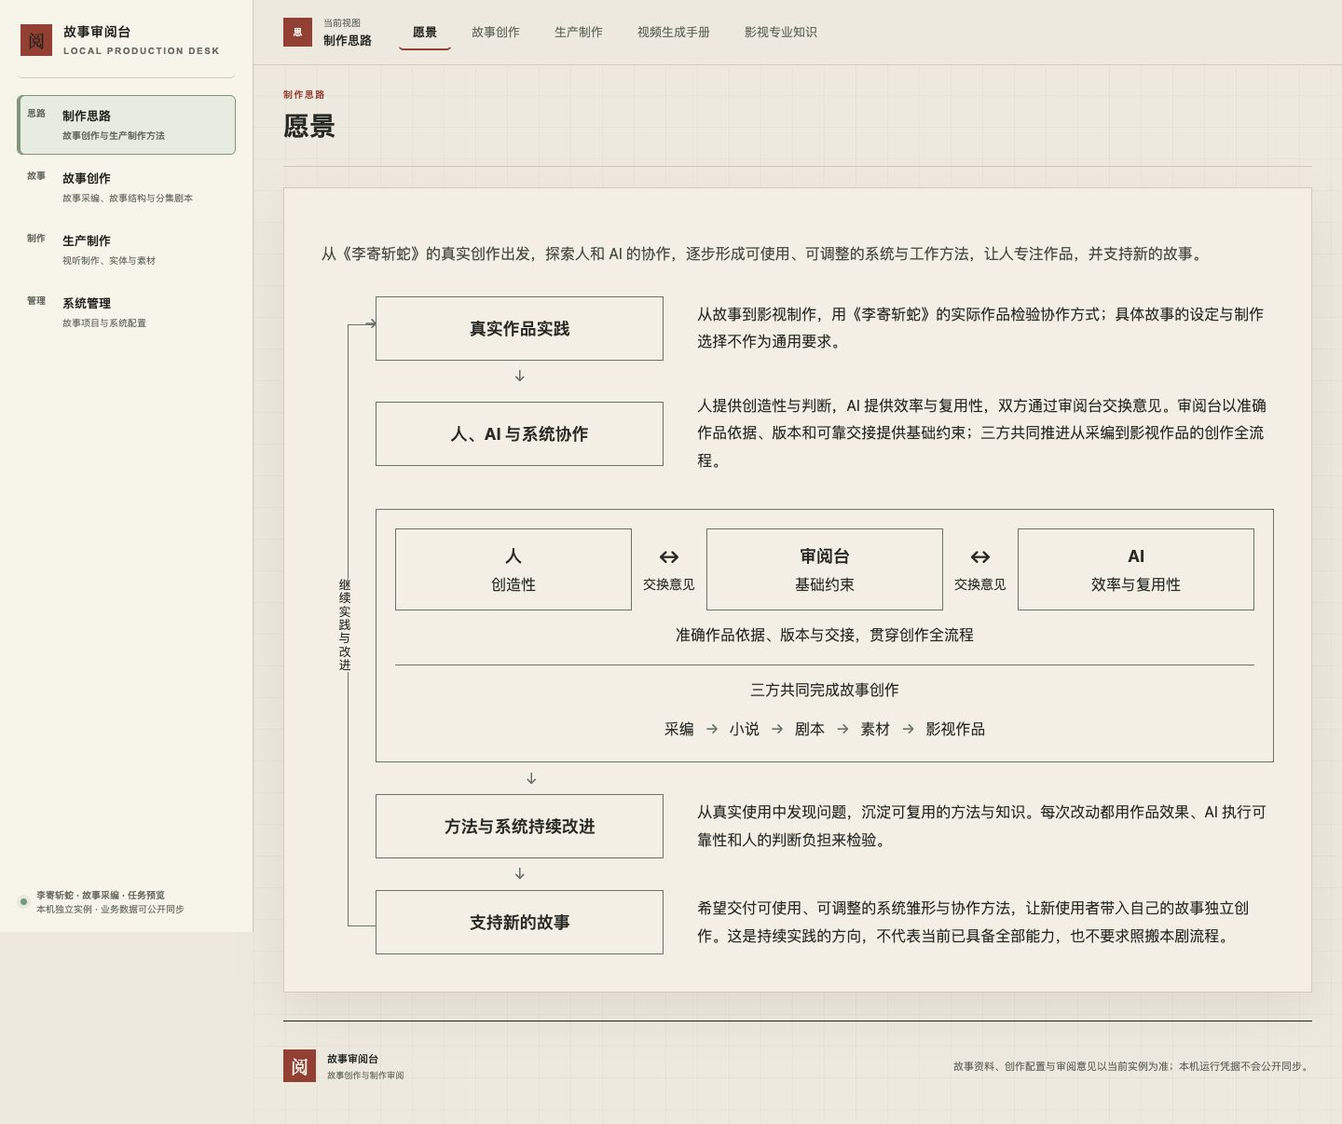
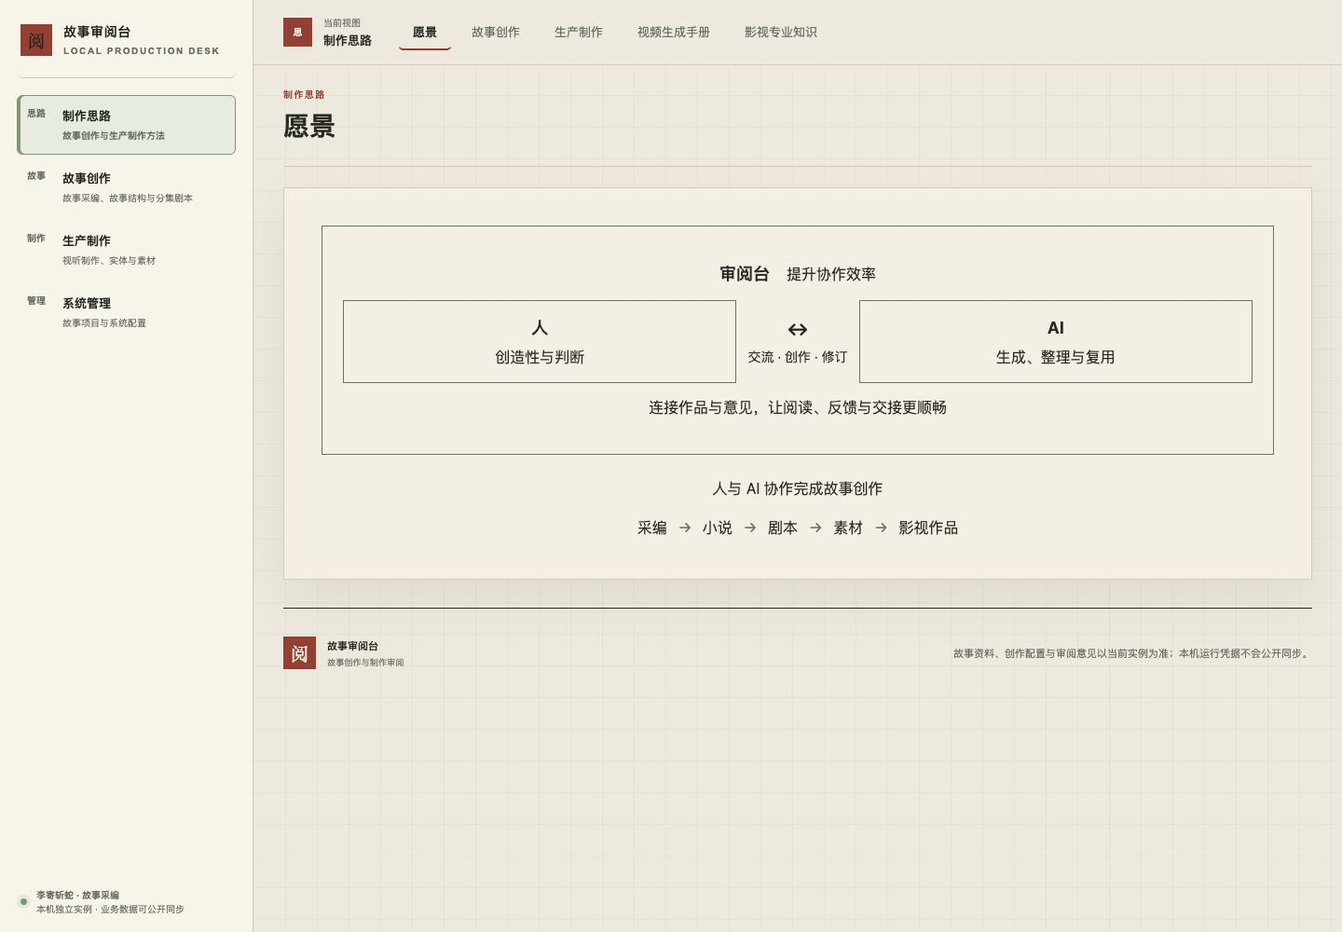
Reduce vision to human AI collaboration supported by the review desk

diff --git a/scripts/sync_system_vision.py b/scripts/sync_system_vision.py
@@ -15,6 +15,20 @@ SECTION_IDS = ('practice', 'review-desk', 'methods', 'delivery')
 
 
 def derive(raw):
+    compact = [line for line in raw.decode('utf-8').splitlines() if line.strip()]
+    if len(compact) >= 2 and compact[1].startswith('<!-- layout: '):
+        match = re.fullmatch(r'<!-- layout: (.+) -->', compact[1])
+        metadata = json.loads(match[1]) if match else None
+        if isinstance(metadata, dict) and metadata.get('type') == 'diagram':
+            if len(compact) != 4 or not compact[0].startswith('# ') or not compact[2].startswith('## '):
+                raise ValueError('diagram-only vision must contain one title and one diagram section')
+            diagram = re.fullmatch(r'<!-- diagram: (.+) -->', compact[3])
+            if not diagram or set(metadata) != {'type', 'anchors'} or metadata['anchors'] != {key: 'review-desk' for key in ('practice', 'methods', 'delivery')}:
+                raise ValueError('invalid diagram-only vision or legacy anchors')
+            return {'id': 'vision', 'label': compact[0][2:], 'title': compact[0][2:], 'lead': '',
+                    'layout': metadata, 'sections': [{'id': 'review-desk', 'title': compact[2][3:],
+                    'blocks': [], 'diagram': json.loads(diagram[1])}],
+                    'source': {'path': SOURCE.as_posix(), 'sha256': hashlib.sha256(raw).hexdigest()}}
     # The approved source stays byte-for-byte intact. Stable reading anchors are
     # supplied to the existing Schema 2 Markdown converter, not added to prose.
     lines, count, layout, diagrams = [], 0, None, {}

diff --git a/tests/test_creative_system_review.py b/tests/test_creative_system_review.py
@@ -28,7 +28,7 @@ class VisionDeliveryTest(unittest.TestCase):
         self.assertEqual(updated['tabs'][1:], before['tabs'])
         self.assertEqual(vision.update(updated, raw), updated)
         tab = updated['tabs'][0]
-        actual = [tab['title'], tab['lead']]
+        actual = [tab['title']] + ([tab['lead']] if tab['lead'] else [])
         for section in tab['sections']:
             actual += [section['title']] + [block['text'] for block in section['blocks']]
         expected = [re.sub(r'^#{1,2} ', '', line) for line in raw.decode().splitlines()

diff --git a/production/vision-collaboration/VERIFICATION.md b/production/vision-collaboration/VERIFICATION.md
@@ -1,33 +1,29 @@
-# task-20261010-0023 · 愿景协作块展开三方分工与完整作品链
+# task-20261010-0023 · 愿景只保留协作图，突出人与AI共同创作
 
-原问题：第二块只有外部节点和一段分工说明，读者不能从图中直接看见三方如何协作及其共同创作范围。现在直接显示“人／创造性 ↔ 审阅台／基础约束 ↔ AI／效率与复用性”，双向连线标注交换意见；准确作品依据、版本与交接约束贯穿“采编 → 小说 → 剧本 → 素材 → 影视作品”。读者无需打开或悬停即可理解分工、交换及共同范围。全链是愿景，不证明已有成片或所有能力已实现。
+原问题：愿景协作块只有外部节点和一段分工，后曾增加三方与作品链。用户2026-10-11进一步明确“整个愿景页只留这张图”，核心是人与AI协作完成创作，审阅台提升协作效率；这次明确反馈取代原四块布局与三方并列的展示要求。
 
-## 版本与实际页面
+现在整页正文只保留协作图。人提供创造性与判断，AI提供生成、整理与复用能力，两者直接双向交流、创作与修订；审阅台用平台框承载双方，说明“提升协作效率”和“连接作品与意见，让阅读、反馈与交接更顺畅”。下方直接显示共同的采编→小说→剧本→素材→影视作品链。移除总述、四块循环、回连和外部重复标题／说明，没有要求用户学习基础约束或版本术语。作品链是创作愿景，不代表已具备全部能力或已有成片。
 
-系统候选为 desk `9d3d767a2538b9aab6375425a6fa7d8b57cc5d58`，故事准确引用在 `config/instance.json`；故事候选与逐仓集成、推送身份以本任务账本为准。开发吸收执行时双仓main/upstream，未沿用0022的旧系统基线。
+## 准确版本与隔离实读
 
-macOS Chrome，本任务新建标签页；完整正式数据的一致性副本，隔离入口 `http://127.0.0.1:50963/`，桌面1440×1000，窄屏390×844。四块、图左文右和继续实践回连保留，协作关系用该行全宽，窄屏按角色交换、贯穿约束、共同作品链纵向阅读，没有缩小文字或横向溢出（scrollWidth=innerWidth=390）。其他三块原含义未改变。
+系统候选 desk `c5962d56add26dbac28d55f5b4232e4fc4711726`；故事准确引用在config/instance.json，完整候选、集成及远端回读身份按本任务账本。两仓均吸收执行时最新main/upstream，保留其他任务更新。
 
-![隔离桌面](isolated-desktop.jpg)
+macOS Chrome，独立实例50964及本任务新标签。桌面1440×1000、窄屏390×844实际阅读通过：平台支持双方、双方直接协作、共同作品链一目了然；窄屏纵向展开，没有横向溢出（scrollWidth=390）。愿景只有一个页面标题，正文只一张图，无内部目录、空引言、外部章节标题或四块循环。
 
-[窄屏全文](isolated-narrow.jpg)
+![当前隔离桌面](isolated-desktop.jpg)
 
-默认入口在实际加载完成后显示愿景；显式vision与刷新相同。无tab旧链的practice、review-desk、methods、delivery均进入对应内容；只有一个愿景大标题，无内部目录或空占位。实际切换四个其他子页，原目录恢复，点击structure、candidate-production、demo-inputs、staging，各代表章首位于顶栏下方约90px。视频手册两张原输入图、专业知识调度SVG实际可见。键盘左右切页可用，回愿景后目录隐藏。
+[窄屏完整图](isolated-narrow.jpg)
 
-在完整隔离数据中全局搜索M2673，读到“挑柴老汉 · 已有原件身份复用方案”；查影视专业知识的场面调度、刷新，再返回生产制作，URL、M2673搜索框、1项结果及全局范围一致。没有提交评论、判断或创作变更。
+显式vision和刷新保持。四个旧愿景链接practice／review-desk／methods／delivery均进入当前图示，按用户删除旧内容后的语义保留入口，不伪装原章节仍存在、不增加空锚点占位。其他四子页内容未改，实际切换与点击structure／candidate-production／demo-inputs／staging，原目录和代表章节保持可读，返回愿景恢复纯图。
 
-## 同源、拒错与方法恢复
+## 同源、恢复与历史边界
 
-唯一正文是 `production/system-vision.md`，角色、连接、流程元数据也在该源稿。`sync_system_vision.py --check`通过，其他四子页内容保持。系统按明确结构展示，不硬编码本剧文案；无diagram的合法旧循环继续显示。
+唯一正文production/system-vision.md同时维护图示角色、平台、交换、作品链与旧锚点映射；sync_system_vision.py --check和同源／方法交付3项、系统HTTP文档9项、前端导航／返回20项通过。旧cycle及constraint图示继续支持，新纯图layout只接受一个图示节；平台support与旧constraint不能混用。4类非法结构或失效引用在隔离副本明确拒绝，修正后完整读取恢复。
 
-隔离副本实测5类非法输入：失效连接端点、重复角色id、错误流程类型、空约束和额外角色字段，全部明确拒绝；恢复正确内容后重新读取完整关系。现有HTTP文档9项、前端格式／导航／方法返回20项、方法交付3项、发布守卫18项通过，JavaScript语法及两仓diff检查通过。API／自动检查补充页面实读，不代替它。
+Review资源、方法、绑定仅追加第5版，新包标准导出与新空实例恢复均取得完整同源愿景；第4版旧执行重导出仍为原文。相同来源和增量幂等，旧expected_version的竞争修改拒绝。旧精确执行、作品、评论、素材原件及其他方法不被升级或覆盖；正式应用仍沿最新活库增量，不用测试库回灌。
 
-Review来源、方法和绑定只追加第4版，共3条修订；标准导出正文、适配和愿景按源目录实际读取，愿景包含完整图示元数据且字节一致。在新空实例恢复该包并重新导出，仍取得同一完整愿景。第3版旧执行再次导出与原导出逐字节相同。
+## 正式回执与收尾
 
-重复同一来源同步不追加；旧expected_version提交不同内容被拒绝，读取最新版本可正常继续。在最新正式数据副本应用准确配置包新增3条，重复应用新增0条；迁移前后逐表检查无关作品、评论、原件及准确历史保持，数据库结构未变。完整检查回执在本任务本机 `.runtime/vision-collaboration/`。
+正式目标为本机3000。准确候选经受管desk→primary集成推送后，以既有发布器准备新冻结包，在串行停止写入窗口应用3条方法修订并切换服务。准确镜像、源码、挂载、保全检查、正式Chrome复验和清理数量，以账本本轮结果及主项目`.runtime/task-20261010-0023/v5/`回执为准；隔离截图不能单独证明正式生效。前一轮正式历史留在原回执及准确Git提交，不改写旧执行。
 
-## 正式发布、独立复验与资源处置
-
-正式入口为 `http://127.0.0.1:3000/?workspace=production.approach&tab=vision`。发布沿受管desk→primary交付和推送，准确冻结包、既有发布锁和停止写入窗口；消费逐仓Git回执，增量追加方法，不回灌任务库。准确运行镜像、挂载、源码、逐表保全、正式Chrome桌面／窄屏及四个对照子页结果，归任务账本的正式发布和执行验收结果与主项目 `.runtime/task-20261010-0023/` 回执；本文候选实读不能单独证明正式生效。
-
-本次用户明确“不自动结项”：不调用_complete，不把执行者验收等同负责人独立Review，不关闭其他历史残留。完成正式发布复验后清理本任务已失效的预览服务、测试库、复制原件、导出及构建副本；准确删除范围、数量、回读与保留用途记入同一本机回执。正式current/previous/base、正式release配置和最小恢复证据按用途保留。任务尚未结项且TUI占用的双仓worktree保留，待用户结项并退出释放锁后，由本任务执行者沿受管cleanup退役。
+用户“不自动结项”的决定继续有效：不调用_complete，不把执行者验证当作负责人独立Review。完成发布复验后停止本轮预览、删除测试库／导出／构建副本和一次性日志；保留正式current/previous/base、正式配置、必要截图与准确恢复回执。两仓worktree在任务未结项和TUI占用期间保留，用户结项并退出释放锁后受管退役。本轮不含VPS发布、付费生成或作品改写。

diff --git a/KNOWLEDGE.md b/KNOWLEDGE.md
@@ -19,7 +19,7 @@
 
 - 方法的共用章节加载条件与工作环节选择条件使用同一无损编辑契约：保留 JSON 类型、顺序和准确引用，布尔与同名字面文本分开，非法或重复字段整次拒绝。修改方法只追加版本，绑定显式更新，旧执行保持原全文快照。操作与验证见 [受管方法](production/managed-methods.md) 和 [条件回写验收](production/method-condition-roundtrip/VERIFICATION.md)；正式方法是否需修正以当次数据证据判断，不从隔离复现推定正式数据损坏。
 
-- 创作协作与系统 Review 的可移植方法只在 [skills/creative-system-review/](skills/creative-system-review/SKILL.md) 维护；项目适配说明本剧入口，迁移时替换适配。系统专用工作类型 `creative-system-review` 经既有 `method-source` 取得完整正文、适配和愿景的准确只读投影，独立于生成绑定；新步骤交付保留完整方法到适配的相对目录，适配和愿景随章提供，旧执行保持原文及旧入口限制；安装、版本更新和空实例恢复见 [受管方法](production/managed-methods.md#创作协作-review)。[愿景](production/system-vision.md) 是唯一愿景正文，`scripts/sync_system_vision.py` 派生制作思路首子页，该页使用左侧线框节点、右侧对应短说明及继续实践回连，无内部阅读目录；协作块可同源展开三方角色、双向意见交换及共同作品链，通用展示和拒错契约见系统 `docs/production-approach.md`；其他子页与四个愿景稳定锚点保留。正文及布局同源，当前投影同步沿受管方法，实际依据见 [愿景页验收](production/vision-page/VERIFICATION.md)。来源：task-20261010-0022 正式验收及 task-20261010-0001 已审正文及确定性派生/方法恢复检查；正式启用仍按任务发布回执核对。
+- 创作协作与系统 Review 的可移植方法只在 [skills/creative-system-review/](skills/creative-system-review/SKILL.md) 维护；项目适配说明本剧入口，迁移时替换适配。系统专用工作类型 `creative-system-review` 经既有 `method-source` 取得完整正文、适配和愿景的准确只读投影，独立于生成绑定；新步骤交付保留完整方法到适配的相对目录，适配和愿景随章提供，旧执行保持原文及旧入口限制；安装、版本更新和空实例恢复见 [受管方法](production/managed-methods.md#创作协作-review)。[愿景](production/system-vision.md) 是唯一愿景正文，`scripts/sync_system_vision.py` 派生制作思路首子页，按用户2026-10-11明确修改，整页只展示同源协作图：人与AI直接双向协作，审阅台平台提升协作效率，下方保留采编至影视作品的完整链；不再显示四块循环、总述或外部章节说明。其他制作思路子页保留，原四个愿景锚点映射到同一图示。通用展示、平台说明及拒错契约见系统 `docs/production-approach.md`；唯一正文、派生和当前Review投影保持一致。实际证据见 [协作图示验收](production/vision-collaboration/VERIFICATION.md)，旧四块阶段按 [愿景页验收](production/vision-page/VERIFICATION.md) 追溯。来源：用户本轮明确反馈与同源派生／恢复核验；正式启用仍按任务发布回执核对。
 
 - 用户已确认将主要创作、制作方法纳入系统管理，并让实际执行取得所选方法、共用资料和准确输入。已交付 SKILL、执行绑定基础与共用专业方法库；保留已确认故事结构与小说。用户在 2026-10-10 取消原 0022/0023 全剧重做安排，后续以创作协作 Review SKILL 的实际探索重新确定优化范围，不将旧重做规划当成持续有效的执行指令。基础任务只验证加载及绑定能力，不代替方法编制或全剧创作。范围与验收目标见 [方法管理与执行绑定规划](planning/managed-skills-runtime-task.md)。方法、共用章节、准确环节绑定与执行快照已正式启用，操作与兼容恢复见 [受管方法](production/managed-methods.md)；旧方案仅按切点中的准确修订保留未知方法历史，新工作使用新契约，不能按任务号永久豁免。主要工作的方法与交接见 [创作制作方法](production/professional-methods.md)，试用范围和发现见 [方法试用](production/professional-methods/VERIFICATION.md)。影视知识、手册仍由项目正文维护，只读投影按准确章节附带图示与来源；新剧本场次及外部创作也须先取得方法，旧候选不补造历史。实际启用与后续运行身份以任务账本和发布回执为准。来源：用户 2026-10-09 批准规格、澄清授权及 task-20261009-0020 的 2026-10-10 正式启用回执及 task-20261009-0021 方法库交付；后续范围以用户 2026-10-10 取消旧重做任务、改用 Review SKILL 的决定为准。
 

diff --git a/STATE.md b/STATE.md
@@ -22,7 +22,7 @@
 
 - 工作方法的按需条件回写已完成自有隔离 Chrome 实操：只改用途后15项条件与准确资源不变，staging/sound全文仍可取；两处显式编辑、失败保护及冻结执行见 [条件回写验收](production/method-condition-roundtrip/VERIFICATION.md)。正式数据没有已证受影响方法，本次不迁移；最终正式版本、验收与清理按 task-20261010-0003 实际回执核对。
 
-- task-20261010-0022 已将 [愿景](production/system-vision.md) 改为四块线框流程与对应短说明，移除本页阅读目录和重复标题；默认、显式入口、刷新、旧锚点、其余四子页及窄屏键盘已在正式 Chrome 回查，Review 当前投影追加第3版。实际发布、恢复及过程清理见 [愿景页验收](production/vision-page/VERIFICATION.md)。[创作协作 Review](skills/creative-system-review/SKILL.md) 继续沿准确只读投影交接。原 task-20261010-0001 的根独立复验仅针对当时版本；旧阶段隔离准备和空实例恢复边界见 [交付验收](production/creative-system-review/VERIFICATION.md)，根验收见 `.runtime/system-review/skill-delivery/formal-acceptance.md`；结项收尾按 task-20261010-0001 实际回执核对。
+- task-20261010-0022 原四块阶段曾将愿景改为四块线框流程与对应短说明，移除本页阅读目录和重复标题；默认、显式入口、刷新、旧锚点、其余四子页及窄屏键盘已在正式 Chrome 回查，Review 当前投影追加第3版。实际发布、恢复及过程清理见 [愿景页验收](production/vision-page/VERIFICATION.md)。[创作协作 Review](skills/creative-system-review/SKILL.md) 继续沿准确只读投影交接。原 task-20261010-0001 的根独立复验仅针对当时版本；旧阶段隔离准备和空实例恢复边界见 [交付验收](production/creative-system-review/VERIFICATION.md)，根验收见 `.runtime/system-review/skill-delivery/formal-acceptance.md`；结项收尾按 task-20261010-0001 实际回执核对。
 
 - 旧镜头制作方案已完成最新双仓候选上的隔离实读：E02/AS006/ASH033版本1直接读原M3071及旧图片1，当前方案可返回；M3070版本2多记录、冻结M1206和ST087旧状态正常对照见[历史方案验收](production/historical-production-definition/VERIFICATION.md)。旧意见、当前采纳/取消、同未冻结制作版参考修改及冲突保护已实操；正式生效、3000只读复验与清理以task-20261009-0031实际回执为准，根独立复验尚未执行。
 
@@ -92,4 +92,4 @@
 
 - task-20261010-0022 的双仓worktree仍由当前TUI及清理锁使用；退出释放后由本任务执行者沿 `codex.project task cleanup` 整组退役，保留分支和会话。预览服务、测试库、构建副本已清除；必要JSON回执保留在主项目 `.runtime/task-20261010-0022/`，待独立Review及追溯用途结束后裁剪，正式运行和恢复不依赖任务目录。
 
-- task-20261010-0023 已在最新正式数据副本验证三方协作图示及Review第4版增量。双仓正式交付、3000复验与资源处置沿任务账本和 [协作图示验收](production/vision-collaboration/VERIFICATION.md) 核对；用户要求本任务不自动结项，负责人独立Review保留。
+- task-20261010-0023 按用户最新反馈，整个愿景页收敛为人与AI协作图，审阅台提升协作效率；纯图与Review第5版在隔离实例验证通过。双仓正式交付、3000复验与资源处置沿任务账本和 [协作图示验收](production/vision-collaboration/VERIFICATION.md) 核对；用户要求本任务不自动结项，负责人独立Review保留。

diff --git a/production/system-vision.md b/production/system-vision.md
@@ -1,23 +1,7 @@
 # 愿景
 
-<!-- layout: {"type":"cycle","return_label":"继续实践与改进"} -->
+<!-- layout: {"type":"diagram","anchors":{"practice":"review-desk","methods":"review-desk","delivery":"review-desk"}} -->
 
-从《李寄斩蛇》的真实创作出发，探索人和 AI 的协作，逐步形成可使用、可调整的系统与工作方法，让人专注作品，并支持新的故事。
+## 人与 AI 协作完成故事创作
 
-## 真实作品实践
-
-从故事到影视制作，用《李寄斩蛇》的实际作品检验协作方式；具体故事的设定与制作选择不作为通用要求。
-
-## 人、AI 与系统协作
-
-<!-- diagram: {"type":"collaboration","roles":[{"id":"human","title":"人","value":"创造性"},{"id":"desk","title":"审阅台","value":"基础约束"},{"id":"ai","title":"AI","value":"效率与复用性"}],"exchanges":[{"from":"human","to":"desk","label":"交换意见"},{"from":"desk","to":"ai","label":"交换意见"}],"constraint":"准确作品依据、版本与交接，贯穿创作全流程","workflow":{"label":"三方共同完成故事创作","stages":["采编","小说","剧本","素材","影视作品"]}} -->
-
-人提供创造性与判断，AI 提供效率与复用性，双方通过审阅台交换意见。审阅台以准确作品依据、版本和可靠交接提供基础约束；三方共同推进从采编到影视作品的创作全流程。
-
-## 方法与系统持续改进
-
-从真实使用中发现问题，沉淀可复用的方法与知识。每次改动都用作品效果、AI 执行可靠性和人的判断负担来检验。
-
-## 支持新的故事
-
-希望交付可使用、可调整的系统雏形与协作方法，让新使用者带入自己的故事独立创作。这是持续实践的方向，不代表当前已具备全部能力，也不要求照搬本剧流程。
+<!-- diagram: {"type":"collaboration","support":{"title":"审阅台","value":"提升协作效率","text":"连接作品与意见，让阅读、反馈与交接更顺畅"},"roles":[{"id":"human","title":"人","value":"创造性与判断"},{"id":"ai","title":"AI","value":"生成、整理与复用"}],"exchanges":[{"from":"human","to":"ai","label":"交流 · 创作 · 修订"}],"workflow":{"label":"人与 AI 协作完成故事创作","stages":["采编","小说","剧本","素材","影视作品"]}} -->

diff --git a/production/managed-methods.md b/production/managed-methods.md
@@ -37,7 +37,7 @@
 
 后续修改先改唯一包或愿景，用 `method-source` 同步对应来源定义并提供资源当前 `expected_version`，再以 `method-save` 追加引用新资源准确修订的方法版本，最后显式更新本工作类型的绑定。旧执行继续旧资源及绑定。将相应准确历史从有效实例导出到登记包，再沿 [工作区发布](generation-workspaces.md) 增量发布；不能手改导出正文或用旧任务整库覆盖正式库。
 
-当前愿景名称为“愿景”，源稿含同源循环布局与协作图示，四块正文和阅读页、Review 第4版只读投影一致。三方角色、双向意见交换与五阶段作品链均直接展开；第1至3版和旧执行保持原文。协作候选、恢复与正式回执入口见 [协作图示验收](vision-collaboration/VERIFICATION.md)，原四块布局的正式历史见 [愿景页验收](vision-page/VERIFICATION.md)。
+当前愿景名称为“愿景”，按用户最新修改仅保留人与AI协作图，审阅台作为提升协作效率的平台；五阶段作品链直接展开。唯一源稿、阅读页与Review第5版准确投影一致；第1至4版和旧执行保持原文。当前候选、恢复与正式回执入口见 [协作图示验收](vision-collaboration/VERIFICATION.md)，原四块布局沿 [愿景页验收](vision-page/VERIFICATION.md) 及Git准确历史追溯。
 
 愿景阅读页由 `python3 scripts/sync_system_vision.py` 确定性派生；`--check` 检查全文和首项位置。愿景是方向说明，不代表全部能力已经实现。初次交付的已审正文与试用边界见 [交付验收](creative-system-review/VERIFICATION.md)。
 
